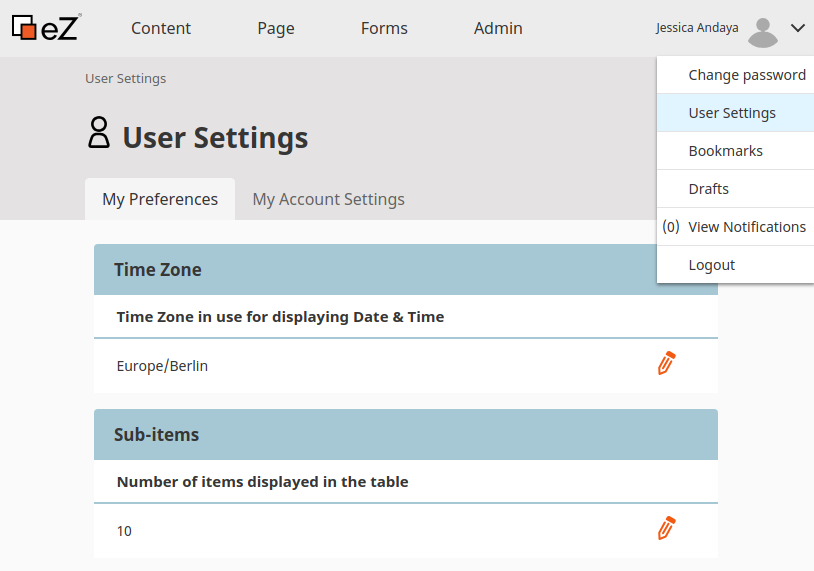
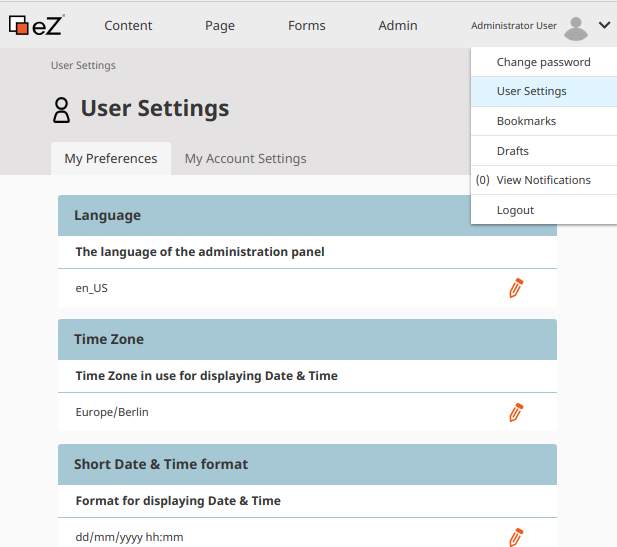
2.5 features

diff --git a/docs/organizing_the_content.md b/docs/organizing_the_content.md
@@ -25,8 +25,9 @@ Then select the new parent from the Content Browser.
 
 You can manage the availability of content by hiding or revealing it.
 You can do this in the Content item's Locations tab by using the Visibility switcher.
-Notice that hiding and revealing only affects a *Location*, not the *Content item*.
+Notice that this way only affects a *Location*, not the *Content item*.
 Even if you hide the content in one Location, it will still be visible in its other Locations.
+You can also [hide a whole Content item](#hiding-content).
 
 When a Location is hidden, all of its children (other Content items that are under it in the tree) will also be automatically hidden.
 They can only be revealed if the parent Location is revealed as well.
@@ -94,6 +95,17 @@ You can also permanently remove all content from the Trash by clicking **Empty T
 !!! caution "Warning"
 
     Emptying the Trash cannot be undone!
+
+### Hiding content
+
+You can hide a Content item by clicking **Hide** in the menu.
+
+![Hide content icon](img/hide_content_icon.png)
+
+A hidden Content item is unavailable for anyone on the front page.
+
+This is different from [hiding Locations](#hiding-locations), because it affects the Content item
+in all of its Locations.
 
 ## URL aliases
 

diff --git a/docs/publishing/editorial_workflow.md b/docs/publishing/editorial_workflow.md
@@ -30,7 +30,11 @@
     You can view all configured workflows in the Admin Panel by selecting **Workflow**.
 
     ![Workflow in Admin Panel](img/workflow_panel.png)
-    
+
+    Here you can also preview a diagram of the workflow.
+
+    ![Workflow diagram](img/workflow_diagram.png)
+
     After selecting configured workflow administrator user is able to see all Content items under review for it.
-    
+
     ![Content under review](img/workflow_content_under_review.png)

diff --git a/docs/getting_started.md b/docs/getting_started.md
@@ -51,4 +51,5 @@ You can access your user settings on the right side of the top bar:
 
 ![User preferences menu](img/user_preferences.png)
 
-Here you can choose your preferred timezone and change your user password.
+Here you can choose change your user password and define your user preferences,
+such as preferred timezone, date and time format or Back Office language.
